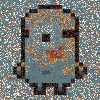
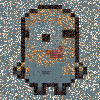
parallélisation de downscale

diff --git a/parallel.go b/parallel.go
@@ -74,3 +74,80 @@ func blackWhiteParallel(rgbMatrix [][]Pixel, width, height int) [][]Pixel {
 	wg.Wait()
 	return rgbMatrix
 }
+
+// downscalePixels réduit la définition sans changer la taille (pixelisation)
+func downscalePixelsParallel(rgbMatrix [][]Pixel, width, height, factor int) [][]Pixel {
+	if factor <= 1 {
+		return rgbMatrix
+	}
+	if len(rgbMatrix) == 0 || len(rgbMatrix[0]) == 0 {
+		return rgbMatrix
+	}
+
+	result := make([][]Pixel, height)
+	for y := 0; y < height; y++ {
+		result[y] = make([]Pixel, width)
+	}
+
+	// Diviser le travail par lignes
+	numGoroutines := runtime.NumCPU()
+	rowsPerGoroutine := (height + numGoroutines - 1) / numGoroutines
+
+	var wg sync.WaitGroup
+	wg.Add(numGoroutines)
+
+	for g := 0; g < numGoroutines; g++ {
+		go func(goroutineID int) {
+			defer wg.Done()
+
+			startRow := goroutineID * rowsPerGoroutine
+			endRow := (goroutineID + 1) * rowsPerGoroutine
+			if endRow > height {
+				endRow = height
+			}
+
+			// Traiter les blocs dans cette tranche de lignes
+			for by := startRow; by < endRow; by += factor {
+				for bx := 0; bx < width; bx += factor {
+					var sumR, sumG, sumB uint64
+					count := 0
+					maxY := by + factor
+					if maxY > height {
+						maxY = height
+					}
+					maxX := bx + factor
+					if maxX > width {
+						maxX = width
+					}
+
+					// Calculer la moyenne du bloc
+					for y := by; y < maxY; y++ {
+						for x := bx; x < maxX; x++ {
+							p := rgbMatrix[y][x]
+							sumR += uint64(p.R)
+							sumG += uint64(p.G)
+							sumB += uint64(p.B)
+							count++
+						}
+					}
+
+					avg := Pixel{
+						R: uint16(sumR / uint64(count)),
+						G: uint16(sumG / uint64(count)),
+						B: uint16(sumB / uint64(count)),
+					}
+
+					// Remplir le bloc avec la moyenne
+					for y := by; y < maxY; y++ {
+						for x := bx; x < maxX; x++ {
+							result[y][x] = avg
+						}
+					}
+				}
+			}
+		}(g)
+	}
+
+	wg.Wait()
+	return result
+}
